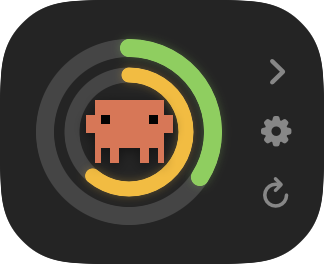
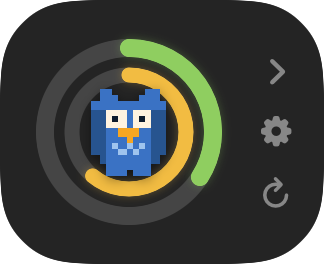
✨ dong-mcu 마스코트 부엉이를 가운데 아이콘으로 추가

Changed region(s): [[0.2469, 0.3333, 0.5556, 0.697]]

diff --git a/Sources/DongMCU/OwlMark.swift b/Sources/DongMCU/OwlMark.swift
@@ -1,0 +1,303 @@
+import AppKit
+import SwiftUI
+
+/// dong-mcu 마스코트 부엉이.
+///
+/// 그리드는 15열 × 13행이다. 몸통은 가운데 11열(x2...x12)만 쓰고,
+/// 좌우 2열은 **날개를 펼 여백**이라 정지 상태에서는 비어 있다.
+/// 그래서 마크는 세로를 기준으로 크기를 맞춰야 한다(`OwlMark.aspectRatio`).
+///
+/// 파츠를 문자열 그리드로 나눠 두고 겹쳐 그린다. 눈만 갈아끼우면 깜빡이고,
+/// 날개 레이어만 바꾸면 펴진다. 애니메이션은 `OwlPose`로 조합한다.
+enum OwlMark {
+    static let columns = 15
+    static let lines = 13
+    /// 좌우 여백이 있어 가로가 더 길다. 링 안에 넣을 때는 높이를 기준으로 맞춘다.
+    static let aspectRatio = CGFloat(columns) / CGFloat(lines)
+
+    // MARK: - 파츠
+    // '#' 몸통  'd' 날개  'l' 배 무늬  'w' 눈 흰자  'k' 눈동자·눈꺼풀  'y' 부리·발
+
+    static let body = [
+        "...##.....##...",
+        "...###...###...",
+        "..###########..",
+        "..###########..",
+        "..###########..",
+        "..###########..",
+        "..###########..",
+        "..###########..",
+        "..###########..",
+        "..###########..",
+        "...#########...",
+        "....#######....",
+        "...............",
+    ]
+
+    static let wingsFolded = [
+        "...............",
+        "...............",
+        "...............",
+        "..dd.......dd..",
+        "..dd.......dd..",
+        "..dd.......dd..",
+        "..dd.......dd..",
+        "..dd.......dd..",
+        "..dd.......dd..",
+        "..dd.......dd..",
+        "...d.......d...",
+        "...............",
+        "...............",
+    ]
+
+    /// 펼친 날개는 좌우 여백까지 써서 어깨 위로 뻗는다.
+    static let wingsSpread = [
+        "dd...........dd",
+        "dd...........dd",
+        ".dd.........dd.",
+        "..dd.......dd..",
+        "..dd.......dd..",
+        "..dd.......dd..",
+        "..dd.......dd..",
+        "..dd.......dd..",
+        "...............",
+        "...............",
+        "...............",
+        "...............",
+        "...............",
+    ]
+
+    static let belly = [
+        "...............",
+        "...............",
+        "...............",
+        "...............",
+        "...............",
+        "...............",
+        "...............",
+        "...............",
+        ".....l.l.l.....",
+        "......l.l......",
+        "...............",
+        "...............",
+        "...............",
+    ]
+
+    /// 깜빡임 3단계. 위에서부터 눈꺼풀이 내려온다.
+    static let eyesOpen = [
+        "...............",
+        "...............",
+        "...............",
+        "....www.www....",
+        "....wkw.wkw....",
+        "....www.www....",
+        "...............",
+        "...............",
+        "...............",
+        "...............",
+        "...............",
+        "...............",
+        "...............",
+    ]
+
+    static let eyesHalf = [
+        "...............",
+        "...............",
+        "...............",
+        "....kkk.kkk....",
+        "....wkw.wkw....",
+        "....www.www....",
+        "...............",
+        "...............",
+        "...............",
+        "...............",
+        "...............",
+        "...............",
+        "...............",
+    ]
+
+    static let eyesClosed = [
+        "...............",
+        "...............",
+        "...............",
+        "....kkk.kkk....",
+        "....kkk.kkk....",
+        "....www.www....",
+        "...............",
+        "...............",
+        "...............",
+        "...............",
+        "...............",
+        "...............",
+        "...............",
+    ]
+
+    static let beak = [
+        "...............",
+        "...............",
+        "...............",
+        "...............",
+        "...............",
+        "...............",
+        "......yyy......",
+        ".......y.......",
+        "...............",
+        "...............",
+        "...............",
+        "...............",
+        "...............",
+    ]
+
+    static let feetStand = [
+        "...............",
+        "...............",
+        "...............",
+        "...............",
+        "...............",
+        "...............",
+        "...............",
+        "...............",
+        "...............",
+        "...............",
+        "...............",
+        "...............",
+        "....###.###....",
+    ]
+
+    static let feetStepA = [
+        "...............",
+        "...............",
+        "...............",
+        "...............",
+        "...............",
+        "...............",
+        "...............",
+        "...............",
+        "...............",
+        "...............",
+        "...............",
+        "...............",
+        "...###..###....",
+    ]
+
+    static let feetStepB = [
+        "...............",
+        "...............",
+        "...............",
+        "...............",
+        "...............",
+        "...............",
+        "...............",
+        "...............",
+        "...............",
+        "...............",
+        "...............",
+        "...............",
+        "....###..###...",
+    ]
+
+    // MARK: - 색
+
+    /// 날개는 몸통보다 어둡되, 다크 배경 위에서도 실루엣이 남을 만큼은 밝아야 한다.
+    static let bodyColor = Color(red: 0x3A / 255, green: 0x72 / 255, blue: 0xC4 / 255)
+    static let wingColor = Color(red: 0x27 / 255, green: 0x54 / 255, blue: 0x8F / 255)
+    static let bellyColor = Color(red: 0x9F / 255, green: 0xC4 / 255, blue: 0xEE / 255)
+    static let faceColor = Color(red: 0xFF / 255, green: 0xF3 / 255, blue: 0xE0 / 255)
+    static let pupilColor = Color(red: 0x0E / 255, green: 0x1B / 255, blue: 0x2E / 255)
+    static let beakColor = Color(red: 0xF6 / 255, green: 0xA6 / 255, blue: 0x23 / 255)
+
+    static func color(for character: Character) -> Color? {
+        switch character {
+        case "#": return bodyColor
+        case "d": return wingColor
+        case "l": return bellyColor
+        case "w": return faceColor
+        case "k": return pupilColor
+        case "y": return beakColor
+        default: return nil
+        }
+    }
+
+    /// 레이어를 좌우로 민다. 캔버스 밖으로 나간 칸은 버린다.
+    static func shifted(_ layer: [String], by dx: Int) -> [String] {
+        guard dx != 0 else { return layer }
+        return layer.map { row in
+            let characters = Array(row)
+            var output = [Character](repeating: ".", count: characters.count)
+            for (index, character) in characters.enumerated() where character != "." {
+                let moved = index + dx
+                if moved >= 0 && moved < characters.count { output[moved] = character }
+            }
+            return String(output)
+        }
+    }
+}
+
+/// 부엉이의 한 자세. 레이어 조합만 바꿔 애니메이션 프레임을 만든다.
+struct OwlPose: Equatable {
+    enum Eyes { case open, half, closed }
+    enum Wings { case folded, spread }
+    enum Feet { case stand, stepA, stepB }
+
+    var eyes: Eyes = .open
+    var wings: Wings = .folded
+    var feet: Feet = .stand
+    /// 몸통만 좌우로 기울인다(발은 제자리). 걸을 때 뒤뚱거리게 하는 값.
+    var lean: Int = 0
+
+    static let idle = OwlPose()
+
+    /// 아래에서 위로 겹쳐 그릴 레이어들.
+    var layers: [[String]] {
+        let eyeLayer: [String] = {
+            switch eyes {
+            case .open: return OwlMark.eyesOpen
+            case .half: return OwlMark.eyesHalf
+            case .closed: return OwlMark.eyesClosed
+            }
+        }()
+        let wingLayer = wings == .folded ? OwlMark.wingsFolded : OwlMark.wingsSpread
+        let feetLayer: [String] = {
+            switch feet {
+            case .stand: return OwlMark.feetStand
+            case .stepA: return OwlMark.feetStepA
+            case .stepB: return OwlMark.feetStepB
+            }
+        }()
+
+        // 발은 땅에 붙어 있어야 해서 기울임에서 뺀다.
+        let leaning = [OwlMark.body, wingLayer, OwlMark.belly, eyeLayer, OwlMark.beak]
+            .map { OwlMark.shifted($0, by: lean) }
+        return leaning + [feetLayer]
+    }
+}
+
+struct OwlMarkView: View {
+    var pose: OwlPose = .idle
+
+    var body: some View {
+        Canvas { context, size in
+            let cellWidth = size.width / CGFloat(OwlMark.columns)
+            let cellHeight = size.height / CGFloat(OwlMark.lines)
+
+            // 경계를 정수로 반올림해서 픽셀 사이에 실틈이 생기지 않게 한다.
+            func rect(x: Int, y: Int) -> CGRect {
+                let left = (CGFloat(x) * cellWidth).rounded()
+                let right = (CGFloat(x + 1) * cellWidth).rounded()
+                let top = (CGFloat(y) * cellHeight).rounded()
+                let bottom = (CGFloat(y + 1) * cellHeight).rounded()
+                return CGRect(x: left, y: top, width: right - left, height: bottom - top)
+            }
+
+            for layer in pose.layers {
+                for (y, row) in layer.enumerated() {
+                    for (x, character) in row.enumerated() {
+                        guard let fill = OwlMark.color(for: character) else { continue }
+                        context.fill(Path(rect(x: x, y: y)), with: .color(fill))
+                    }
+                }
+            }
+        }
+        .aspectRatio(OwlMark.aspectRatio, contentMode: .fit)
+    }
+}

diff --git a/Sources/DongMCU/ClaudeIcon.swift b/Sources/DongMCU/ClaudeIcon.swift
@@ -2,6 +2,8 @@ import AppKit
 import SwiftUI
 
 enum ClaudeIconStyle: String, CaseIterable {
+    /// dong-mcu 마스코트 부엉이.
+    case owl
     /// Claude Code 마스코트 Clawd.
     case clawd
     /// Claude 앱 아이콘. 번들에 넣어둔 이미지를 쓴다.
@@ -9,10 +11,11 @@ enum ClaudeIconStyle: String, CaseIterable {
     /// 직접 그린 벡터 버스트 마크.
     case mark
 
-    static let `default` = ClaudeIconStyle.clawd
+    static let `default` = ClaudeIconStyle.owl
 
     var title: String {
         switch self {
+        case .owl: return "부엉이 (dong-mcu 마스코트)"
         case .clawd: return "Clawd (Claude Code 마스코트)"
         case .appIcon: return "Claude 앱 아이콘"
         case .mark: return "버스트 마크"
@@ -22,6 +25,7 @@ enum ClaudeIconStyle: String, CaseIterable {
     /// 미리보기 타일 밑에 붙일 짧은 이름.
     var shortTitle: String {
         switch self {
+        case .owl: return "부엉이"
         case .clawd: return "Clawd"
         case .appIcon: return "앱 아이콘"
         case .mark: return "버스트"
@@ -65,6 +69,12 @@ struct ClaudeIconView: View {
 
     var body: some View {
         switch style {
+        case .owl:
+            // 부엉이는 날개를 펼 좌우 여백까지 그리므로 가로가 더 길다.
+            // 링 안에 들어가야 하니 높이를 기준으로 맞춘다.
+            OwlMarkView()
+                .frame(height: size)
+                .shadow(color: .black.opacity(0.45), radius: 2, y: 1)
         case .clawd:
             ClawdMark(eyeColor: eyeColor)
                 .frame(width: size)

diff --git a/Sources/DongMCU/HUDPanel.swift b/Sources/DongMCU/HUDPanel.swift
@@ -457,13 +457,12 @@ final class HUDController {
         menu.addItem(reset)
 
         let iconMenu = NSMenu()
-        let styles: [(ClaudeIconStyle, String)] = [
-            (.clawd, "Clawd (Claude Code 마스코트)"),
-            (.appIcon, "Claude 앱 아이콘"),
-            (.mark, "버스트 마크"),
-        ]
-        for (style, title) in styles {
-            let item = NSMenuItem(title: title, action: #selector(handleIconStyle(_:)), keyEquivalent: "")
+        for style in ClaudeIconStyle.allCases {
+            let item = NSMenuItem(
+                title: style.title,
+                action: #selector(handleIconStyle(_:)),
+                keyEquivalent: ""
+            )
             item.target = self
             item.representedObject = style.rawValue
             item.state = iconStyle == style ? .on : .off

diff --git a/README.md b/README.md
@@ -77,13 +77,13 @@ Claude Code 재로그인…
 접기 / 펼치기
 HUD 숨기기
 위치 초기화
-가운데 아이콘  ▸  Clawd / Claude 앱 아이콘 / 버스트 마크
+가운데 아이콘  ▸  부엉이 / Clawd / Claude 앱 아이콘 / 버스트 마크
 테마          ▸  시스템 설정 따름 / 라이트 / 다크
 ──────────
 dong-mcu 종료               ⌘Q
 ```
 
-설정 창(톱니 버튼 또는 `⌘,`)에서 현재 사용량, 테마, 가운데 아이콘(세 가지를 실제로
+설정 창(톱니 버튼 또는 `⌘,`)에서 현재 사용량, 테마, 가운데 아이콘(네 가지를 실제로
 그려서 보여주고 고른다), 조회 주기, 펼침 방향, 배경 불투명도, 접기, HUD 표시,
 위치 초기화, 재로그인을 한 화면에서 볼 수 있다.
 
@@ -153,8 +153,8 @@ VARIANT=test ./build.sh    # dong-mcu-test.app  (dev.sh의 기본값)
 앱을 띄우지 않고 HUD 모양만 PNG로 확인할 수도 있다.
 
 ```bash
-./dev.sh render 94 71 clawd          # 사용률 94% / 71%
-dong-mcu --render out.png 100 71 clawd reauth   # 실패 상태까지 재현
+./dev.sh render 94 71 owl            # 사용률 94% / 71%
+dong-mcu --render out.png 100 71 owl reauth   # 실패 상태까지 재현
 ```
 
 에디터는 VS Code + [Swift 확장](https://marketplace.visualstudio.com/items?itemName=swiftlang.swift-vscode)
